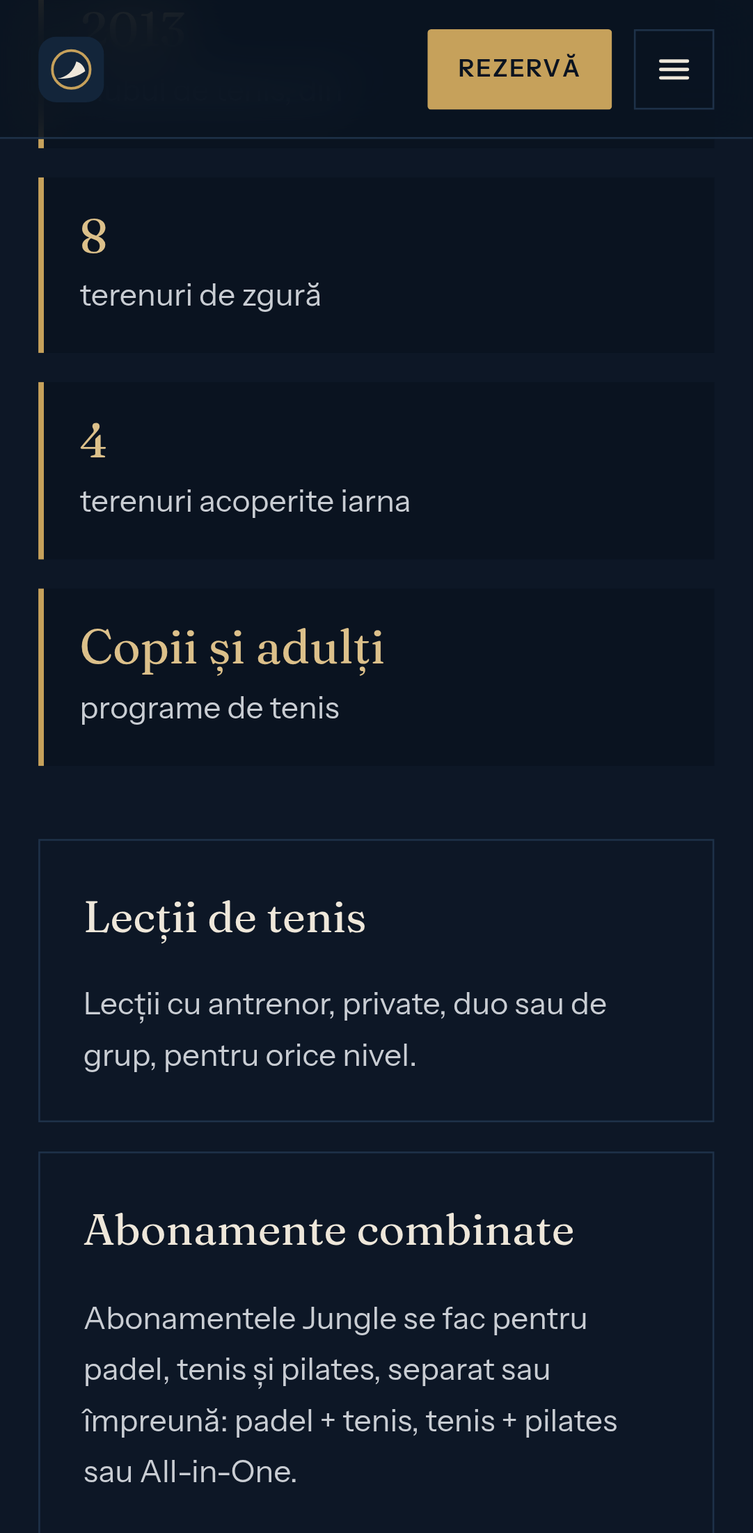
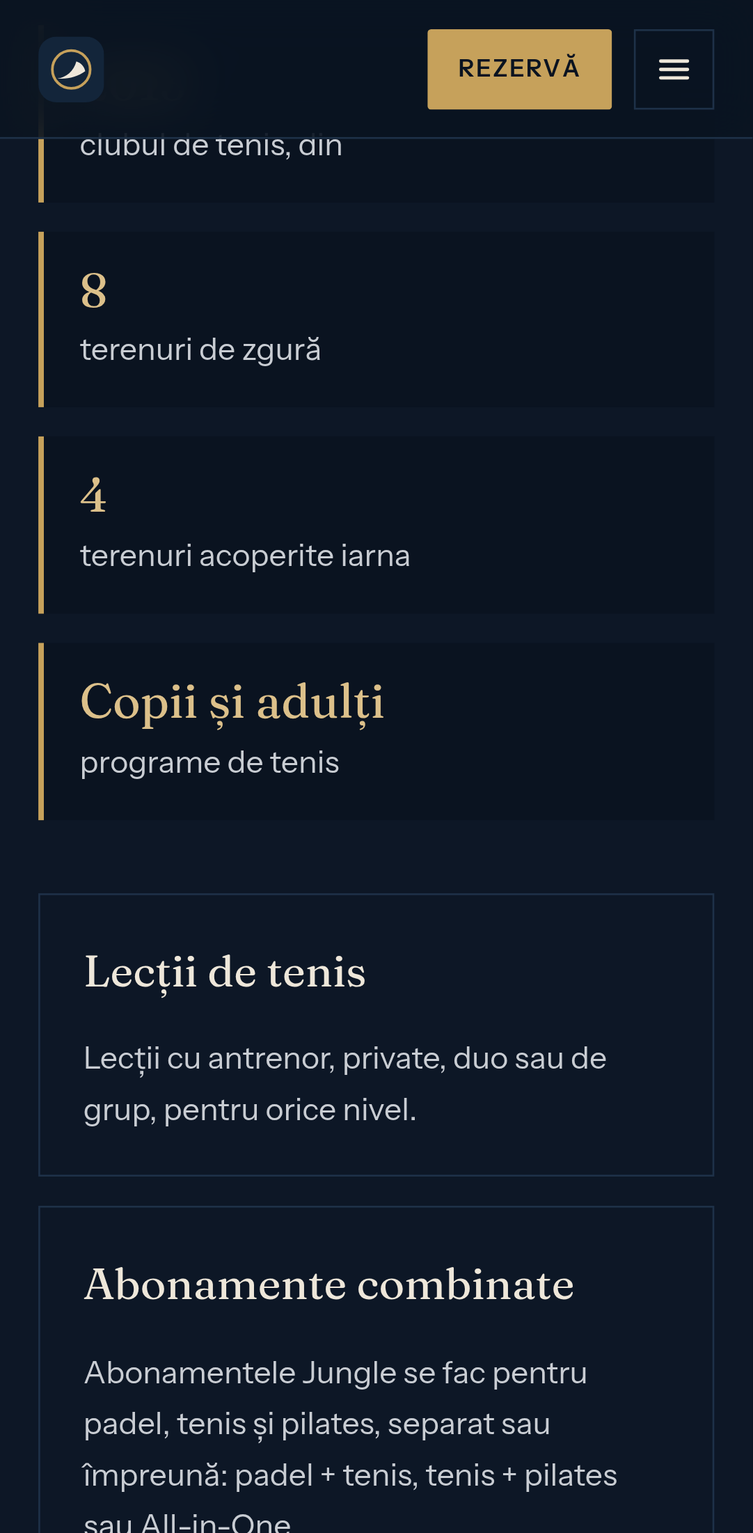
docs: the owner approves sections 2-8 of the full site; Q58 answered
- Sections 2-8 (hero, tour, now at the club, padel, level simulator,
  league, tennis) approved by the owner on 30.09.2026: report, PROGRES,
  CHANGELOG and CLAUDE.md say so; they go to main.
- Q58 answered ("nu avem adresa"): the tennis section has no link and no
  longer promises one ("apare aici în curând" removed); the button to the
  tennis club's site appears only if an address is set in the panel.
  club.tennis_club_url is now marked confirmed. The tennis e2e test checks
  there is neither a link nor a promise.

Claude-Session: https://claude.ai/code/session_01ESD79gPgzcue6YGN8JJxCk

diff --git a/apps/web/e2e/full/tennis.spec.ts b/apps/web/e2e/full/tennis.spec.ts
@@ -1,7 +1,7 @@
 /**
  * The full site, section 8 (§9.2.8, Stage 11): tennis, played at Clubul Tenis Elite, whose site
- * stays separate (Q20). Until the owner sets its address (Q58) there is no link, only the note; no
- * price or court time of the tennis club appears here.
+ * stays separate (Q20). The owner has no address for that site (Q58): no link and no promise of
+ * one; no price or court time of the tennis club appears here.
  */
 import { expect, type Page, test } from "@playwright/test";
 import { chooseNecessaryCookies, expectAccessible } from "../helpers";
@@ -13,7 +13,7 @@ async function shot(page: Page, name: string, project: string) {
 
 test.beforeEach(async ({ context, baseURL }) => chooseNecessaryCookies(context, baseURL));
 
-test("§9.2.8: the tennis club in facts, lessons, packages and the link to come (Q20, Q58)", async ({ page }, info) => {
+test("§9.2.8: the tennis club in facts, lessons and packages, without a link (Q20, Q58)", async ({ page }, info) => {
   await page.goto("/ro");
   const tennis = page.getByRole("region", { name: "Tenis, la Clubul Tenis Elite." });
   await tennis.scrollIntoViewIfNeeded();
@@ -24,7 +24,7 @@ test("§9.2.8: the tennis club in facts, lessons, packages and the link to come 
     "Abonamente combinate",
     "Reformer pentru jucători",
   ]);
-  await expect(tennis.getByText("Legătura spre site-ul Clubului Tenis Elite apare aici în curând.")).toBeVisible();
+  await expect(tennis).not.toContainText("în curând");
   await expect(tennis.locator('a[target="_blank"]')).toHaveCount(0);
   await expect(tennis).not.toContainText(/\d\s?(lei|RON)\b/);
   await expect(tennis.getByRole("link", { name: "Vezi pachetele" })).toHaveAttribute("href", "/ro/pachete");

diff --git a/apps/web/src/components/Tennis.tsx b/apps/web/src/components/Tennis.tsx
@@ -40,13 +40,13 @@ export async function Tennis({ id }: { id: string }) {
         </ul>
         <p className="tennis__booking">{t("booking")}</p>
         <div className="hero-ctas">
-          {url ? (
+          {/* The owner has no address for the tennis club's site (Q58, 30.09.2026): no link and no
+              promise of one; it appears on its own if an address is ever set in the panel. */}
+          {url && (
             <a className="btn btn-primary" href={url} target="_blank" rel="noopener">
               {t("club")}
               <span className="sr-only"> {t("newWindow")}</span>
             </a>
-          ) : (
-            <p className="muted">{t("clubSoon")}</p>
           )}
           <Link className="btn btn-secondary" href="/packages">
             {t("packages")}

diff --git a/apps/backend/jungle/configuration/registry.py b/apps/backend/jungle/configuration/registry.py
@@ -375,9 +375,9 @@ CONFIG: dict[str, ConfigSpec] = {
         ConfigSpec(
             "club.tennis_club_url",
             "",
-            Marker.TO_CONFIRM,
-            "Adresa site-ului Clubului Tenis Elite, legată din secțiunea Tenis a site-ului (Q20); "
-            "goală: numele clubului, fără link.",
+            Marker.CONFIRMED,
+            "Adresa site-ului Clubului Tenis Elite, legată din secțiunea Tenis a site-ului (Q20). "
+            "Goală: fără link (Q58, confirmat de proprietar pe 30.09.2026: nu există încă adresă).",
             optional_url,
             question="Q58",
         ),

diff --git a/CLAUDE.md b/CLAUDE.md
@@ -6,7 +6,7 @@ Memoria operațională a proiectului. Se actualizează la finalul fiecărei etap
 Sistem digital propriu pentru clubul **Jungle Padel** (Șoseaua Biruinței, lângă Selgros Pantelimon): 4 terenuri de padel închise, pilates Reformer (4 → 6 aparate), sală de evenimente, cafenea, ligă de padel de tip MMR. Deschidere: **martie 2027**. Proprietarul **nu are programator**: noi construim și întreținem, în sesiuni succesive. Backend-ul și website-ul sunt singura sursă de adevăr; chioșcurile, ecranele, afișajul cafenelei și adminul sunt „ferestre” spre aceleași date, conectate live.
 
 ## Stare curentă
-- **Etapa 0 aprobată pe 26.09.2026** (tag `etapa-0` doar local: push-ul de tag-uri e refuzat de GitHub din acest mediu). **Etapa 1A aprobată pe 27.09.2026.** **Etapa 1B (pagina de pre-lansare) aprobată pe 27.09.2026** (revizia 3, identitatea „Noapte și alamă”, B4, aleasă de proprietar) (`docs/12-branding/05-identitate-provizorie-noapte-si-alama.md`; „Premium Light” și „Neon Jungle” sunt istoric). Planul clubului, după schița proprietarului: 4 terenuri 2 × 2, pasarelă-lounge la 3 m între rânduri, cafenea/recepție/vestiare jos; pilates și sala de evenimente în clădirea de alături, peste alee (Q46: 4 aparate Reformer momentan, pasarela la 3 m). **Etapa 3 (rezervări, prețuri, anulări, prezențe) aprobată pe 27.09.2026** (`docs/00-management/verificare/etapa-3/RAPORT.md`; Q2, Q3 — vârf 17–22, program 08–23 —, Q15, Q16 confirmate; Q21 prețuri încă deschisă). **Etapa 4 (bani, abonamente, corporate, vouchere, cafenea) aprobată pe 27.09.2026** (Q9: doar numerar; Q13 confirmat; Q21: prețuri orientative DE_STABILIT; Q35: un pachet de firmă, 20%). **Etapa 5 (carduri, Apple + Google Wallet, GDPR) aprobată pe 27.09.2026** (`docs/00-management/verificare/etapa-5/RAPORT.md`; Wallet se activează după conturile clubului, ghid în `docs/08-deploy-si-mentenanta/02-ghid-apple-google-wallet.md`). **Etapa 6 (integrarea ligii) aprobată pe 28.09.2026** (`docs/00-management/verificare/etapa-6/RAPORT.md`; Q6 schimbat: alegere 15% abonament sau 4 × 20% rezervări; Q49: teren, oră, rezultate și istoric publice; Q11, Q27, Q28, Q47, Q48, Q50 confirmate). **Etapa 7 (Hardware Bridge + Chioșcul Ligii) aprobată pe 28.09.2026** (`docs/00-management/verificare/etapa-7/RAPORT.md`; Q51, Q52 confirmate). **Etapa 8 (Chioșcul de Plăți + afișajul cafenelei) aprobată pe 29.09.2026** (`docs/00-management/verificare/etapa-8/RAPORT.md`; Q53, Q54 rămân deschise, cu variantele implicite DE_CONFIRMAT). **Etapa 9 (ecranele de teren și lobby) aprobată pe 29.09.2026** (`docs/00-management/verificare/etapa-9/RAPORT.md`; Q55 rezolvată: toți pe nume, cei din ligă cu insigna „Ligă”; echipele alese de jucători la Chioșcul Ligii). **Etapa 10 (panoul de admin) aprobată pe 29.09.2026** (`docs/00-management/verificare/etapa-10/RAPORT.md`; Q56 rămâne deschisă: rapoartele doar admin + manager, DE_CONFIRMAT). **Etapa 11 (site-ul complet), secțiune cu secțiune:** secțiunea 1 (antetul fix + fundația: comutatorul `full_site`) aprobată pe 29.09.2026 (`docs/00-management/verificare/etapa-11/RAPORT.md`); Q57 rezolvată: site-ul complet apare doar când îl publică proprietarul (comutatorul, din panou). Secțiunile 2 (Hero, `FullHero`), 3 (turul la scroll, `Tour`) 4 („Acum în club”, `NowInClub` + `LiveClub`, live din API-ul public, `src/lib/live.ts`), 5 (Padel, `Padel` + `PadelCourt`), 6 (simulatorul „Care e nivelul tău?”, `Level` + `LevelSimulator`, nivelul calculat pe server de `jungle.league.level_guess` cu formula chestionarului oficial), 7 (Liga Jungle, `League` + `PointsSimulator` + `StandingsPreview`; LP-ul din simulator îl calculează motorul ligii pe server, `jungle.league.lp_preview`, niciodată o copie a formulei în site) și 8 (Tenis, `Tennis`; linkul spre Clubul Tenis Elite din setarea `club.tennis_club_url`, Q58, prin `GET /api/v1/config/links` și `src/lib/links.ts`) livrate pe 29–30.09.2026; decizia proprietarului: în Etapa 11 alegerile le facem noi și continuăm secțiune după secțiune (secțiunile gata rămân pe branch până la aprobarea lor în `main`). **Etapa 11 (website-ul complet) în lucru**, secțiune cu secțiune (§9.2), fiecare aprobată separat. **Etapa 2 (motorul ligii + simulări) aprobată pe 27.09.2026** (`packages/league-engine`, 100% acoperire pe ramuri, rapoarte în `docs/03-liga/simulari/`).
+- **Etapa 0 aprobată pe 26.09.2026** (tag `etapa-0` doar local: push-ul de tag-uri e refuzat de GitHub din acest mediu). **Etapa 1A aprobată pe 27.09.2026.** **Etapa 1B (pagina de pre-lansare) aprobată pe 27.09.2026** (revizia 3, identitatea „Noapte și alamă”, B4, aleasă de proprietar) (`docs/12-branding/05-identitate-provizorie-noapte-si-alama.md`; „Premium Light” și „Neon Jungle” sunt istoric). Planul clubului, după schița proprietarului: 4 terenuri 2 × 2, pasarelă-lounge la 3 m între rânduri, cafenea/recepție/vestiare jos; pilates și sala de evenimente în clădirea de alături, peste alee (Q46: 4 aparate Reformer momentan, pasarela la 3 m). **Etapa 3 (rezervări, prețuri, anulări, prezențe) aprobată pe 27.09.2026** (`docs/00-management/verificare/etapa-3/RAPORT.md`; Q2, Q3 — vârf 17–22, program 08–23 —, Q15, Q16 confirmate; Q21 prețuri încă deschisă). **Etapa 4 (bani, abonamente, corporate, vouchere, cafenea) aprobată pe 27.09.2026** (Q9: doar numerar; Q13 confirmat; Q21: prețuri orientative DE_STABILIT; Q35: un pachet de firmă, 20%). **Etapa 5 (carduri, Apple + Google Wallet, GDPR) aprobată pe 27.09.2026** (`docs/00-management/verificare/etapa-5/RAPORT.md`; Wallet se activează după conturile clubului, ghid în `docs/08-deploy-si-mentenanta/02-ghid-apple-google-wallet.md`). **Etapa 6 (integrarea ligii) aprobată pe 28.09.2026** (`docs/00-management/verificare/etapa-6/RAPORT.md`; Q6 schimbat: alegere 15% abonament sau 4 × 20% rezervări; Q49: teren, oră, rezultate și istoric publice; Q11, Q27, Q28, Q47, Q48, Q50 confirmate). **Etapa 7 (Hardware Bridge + Chioșcul Ligii) aprobată pe 28.09.2026** (`docs/00-management/verificare/etapa-7/RAPORT.md`; Q51, Q52 confirmate). **Etapa 8 (Chioșcul de Plăți + afișajul cafenelei) aprobată pe 29.09.2026** (`docs/00-management/verificare/etapa-8/RAPORT.md`; Q53, Q54 rămân deschise, cu variantele implicite DE_CONFIRMAT). **Etapa 9 (ecranele de teren și lobby) aprobată pe 29.09.2026** (`docs/00-management/verificare/etapa-9/RAPORT.md`; Q55 rezolvată: toți pe nume, cei din ligă cu insigna „Ligă”; echipele alese de jucători la Chioșcul Ligii). **Etapa 10 (panoul de admin) aprobată pe 29.09.2026** (`docs/00-management/verificare/etapa-10/RAPORT.md`; Q56 rămâne deschisă: rapoartele doar admin + manager, DE_CONFIRMAT). **Etapa 11 (site-ul complet), secțiune cu secțiune:** secțiunea 1 (antetul fix + fundația: comutatorul `full_site`) aprobată pe 29.09.2026 (`docs/00-management/verificare/etapa-11/RAPORT.md`); Q57 rezolvată: site-ul complet apare doar când îl publică proprietarul (comutatorul, din panou). Secțiunile 2 (Hero, `FullHero`), 3 (turul la scroll, `Tour`) 4 („Acum în club”, `NowInClub` + `LiveClub`, live din API-ul public, `src/lib/live.ts`), 5 (Padel, `Padel` + `PadelCourt`), 6 (simulatorul „Care e nivelul tău?”, `Level` + `LevelSimulator`, nivelul calculat pe server de `jungle.league.level_guess` cu formula chestionarului oficial), 7 (Liga Jungle, `League` + `PointsSimulator` + `StandingsPreview`; LP-ul din simulator îl calculează motorul ligii pe server, `jungle.league.lp_preview`, niciodată o copie a formulei în site) și 8 (Tenis, `Tennis`; linkul spre Clubul Tenis Elite din setarea `club.tennis_club_url`, Q58, prin `GET /api/v1/config/links` și `src/lib/links.ts`; Q58 rezolvată: fără adresă, fără link) livrate pe 29–30.09.2026 și **aprobate de proprietar pe 30.09.2026** (în `main`); decizia proprietarului: în Etapa 11 alegerile le facem noi și continuăm secțiune după secțiune (secțiunile gata rămân pe branch până la aprobarea lor în `main`); **următoarea: secțiunea 9 (Pilates Reformer)**. **Etapa 11 (website-ul complet) în lucru**, secțiune cu secțiune (§9.2), fiecare aprobată separat. **Etapa 2 (motorul ligii + simulări) aprobată pe 27.09.2026** (`packages/league-engine`, 100% acoperire pe ramuri, rapoarte în `docs/03-liga/simulari/`).
 - Decizii ale proprietarului din 26.09.2026: Apple Wallet amânat (Q24) — **schimbat pe 27.09.2026: Apple Wallet se face în Etapa 5**; textele legale le redactăm noi, fără avocat (Q41); hardware ales mai târziu, lucrăm cu simulatoare (Q23); server propriu sau închiriat (Q40); cont propriu de la 14 ani (Q43, 27.09.2026).
 - Detalii: [docs/00-management/PROGRES.md](docs/00-management/PROGRES.md).
 

diff --git a/docs/00-management/PROGRES.md b/docs/00-management/PROGRES.md
@@ -3,7 +3,7 @@
 > Actualizat la fiecare sesiune de lucru. Prima secțiune spune mereu **unde suntem acum**.
 
 ## Unde suntem acum
-- **Etapa curentă:** Etapa 11 (website-ul complet, secțiune cu secțiune, fiecare aprobată separat). **Secțiunea 1 (antetul fix) + fundația site-ului complet:** aprobată de proprietar pe 29.09.2026 (în `main`). Site-ul complet stă ascuns în spatele comutatorului `full_site` până îl publică proprietarul (Q57, rezolvată). **Secțiunile 2 (Hero „Intră în junglă”), 3 (turul clubului la scroll), 4 („Acum în club”, live), 5 (Padel), 6 (simulatorul „Care e nivelul tău?”), 7 (Liga Jungle, cu simulatorul de puncte) și 8 (Tenis):** livrate pe 29–30.09.2026, pe branch. Decizia proprietarului (29.09.2026): în Etapa 11 alegerile le facem noi și continuăm secțiune după secțiune. Raport: [verificare/etapa-11/RAPORT.md](verificare/etapa-11/RAPORT.md).
+- **Etapa curentă:** Etapa 11 (website-ul complet, secțiune cu secțiune, fiecare aprobată separat). **Secțiunea 1 (antetul fix) + fundația site-ului complet:** aprobată de proprietar pe 29.09.2026 (în `main`). Site-ul complet stă ascuns în spatele comutatorului `full_site` până îl publică proprietarul (Q57, rezolvată). **Secțiunile 2 (Hero „Intră în junglă”), 3 (turul clubului la scroll), 4 („Acum în club”, live), 5 (Padel), 6 (simulatorul „Care e nivelul tău?”), 7 (Liga Jungle, cu simulatorul de puncte) și 8 (Tenis):** aprobate de proprietar pe 30.09.2026 (în `main`). Q58 rezolvată: fără adresa site-ului de tenis, secțiunea Tenis rămâne fără link. **Următoarea:** secțiunea 9 (Pilates Reformer). Decizia proprietarului (29.09.2026): în Etapa 11 alegerile le facem noi și continuăm secțiune după secțiune. Raport: [verificare/etapa-11/RAPORT.md](verificare/etapa-11/RAPORT.md).
 - **Etapa 10 (panoul de admin):** aprobată de proprietar pe 29.09.2026 (merge în `main`, tag local `etapa-10`). Q56 rămâne deschisă, cu varianta implicită (rapoartele doar admin + manager). Raport: [verificare/etapa-10/RAPORT.md](verificare/etapa-10/RAPORT.md).
 - **Etapa 9 (ecranele de teren și lobby):** aprobată de proprietar pe 29.09.2026 (merge în `main`, tag local `etapa-9`). Q55 rezolvată (toți pe nume, insigna „Ligă”, echipele alese la Chioșcul Ligii). Raport: [verificare/etapa-9/RAPORT.md](verificare/etapa-9/RAPORT.md).
 - **Etapa 8 (Chioșcul de Plăți + afișajul cafenelei):** aprobată de proprietar pe 29.09.2026 (merge în `main`, tag local `etapa-8`). Q53 și Q54 rămân deschise, cu variantele implicite. Raport: [verificare/etapa-8/RAPORT.md](verificare/etapa-8/RAPORT.md).
@@ -36,7 +36,7 @@
 | 8 | Chioșcul de Plăți + afișajul cafenelei | ian. 2027 | **Aprobată 29.09.2026** |
 | 9 | Ecranele | ian. 2027 | **Aprobată 29.09.2026** |
 | 10 | Panoul de admin complet | ian. 2027 | **Aprobată 29.09.2026** |
-| 11 | Website-ul „simulator” | ian.–feb. 2027 | În lucru: secțiunea 1 aprobată 29.09.2026; secțiunile 2–8 livrate |
+| 11 | Website-ul „simulator” | ian.–feb. 2027 | În lucru: secțiunea 1 aprobată 29.09.2026; secțiunile 2–8 aprobate 30.09.2026 |
 | 12 | AI + notificări | feb. 2027 | Neîncepută |
 | 13 | SEO, marketing, branding, vânzări | în paralel, feb. 2027 | Neîncepută |
 | 14 | Deploy, securitate, backup, hardware real | feb. 2027 | Neîncepută |
@@ -140,3 +140,4 @@
 - **30.09.2026** — Etapa 11, secțiunea 6 livrată: simulatorul „Care e nivelul tău?” (întrebări pe pastile, mingea care ricoșează și aterizează pe scara 1–7, nivelul calculat pe server cu formula chestionarului oficial Q47, recomandarea, chestionarul oficial precompletat; nu se salvează nimic). Fonturile cu literele românești se cer de la început. Lighthouse mobil 91/100/100/100 (LCP simulat 3,3 s, ca în 1B de măsurat pe serverul real), desktop 100.
 - **30.09.2026** — Etapa 11, secțiunea 7 livrată: Liga Jungle (rangurile pe o scară care urcă, cum se câștigă LP, sezoanele, premiile Q6, clasamentul live) și simulatorul de puncte, cu LP calculat de motorul ligii pe server (`GET /api/v1/league/lp-preview`), nu cu o copie a formulei. Lighthouse mobil 95/100/100/100, desktop 100.
 - **30.09.2026** — Etapa 11, secțiunea 8 livrată: Tenis (Clubul Tenis Elite pe scurt, lecții, abonamente combinate, Reformer pentru jucători; linkul spre site-ul de tenis din panou, Q58 nouă). Lighthouse mobil 90–92 (marja scade: trecere de performanță planificată înainte de publicare), desktop 100.
+- **30.09.2026** — Proprietarul: „nu avem adresa. Aprob și continuă”. Secțiunile 2–8 aprobate și aduse în `main`; Q58 rezolvată (secțiunea Tenis fără link și fără fraza „apare aici în curând”).

diff --git a/docs/00-management/verificare/etapa-11/RAPORT.md b/docs/00-management/verificare/etapa-11/RAPORT.md
@@ -2,18 +2,20 @@
 
 > Branch: `claude/hopeful-euler-rguibn`. Site-ul complet se livrează **secțiune cu secțiune** (§9.2). Acest raport crește cu fiecare secțiune.
 >
+> **Aprobarea proprietarului (30.09.2026):** „Aprob și continuă”: secțiunile 2–8 sunt aprobate și intră în `main`. La Q58: „nu avem adresa” (secțiunea Tenis rămâne fără link).
+>
 > **Decizia proprietarului (29.09.2026):** „alege ce crezi că este mai bine doar la această etapă”. În Etapa 11, alegerile de conținut și design le facem noi, după documentație și regulile proiectului, și continuăm secțiune după secțiune. Dumneavoastră vedeți totul aici și ne spuneți oricând ce vreți schimbat.
 
 | Secțiune (§9.2) | Livrată | Starea |
 |---|---|---|
 | Fundația site-ului complet + **1. Antetul fix** | 29.09.2026 | **aprobată 29.09.2026** |
-| 2. Hero „Intră în junglă” | 29.09.2026 | **livrată** |
-| 3. Turul clubului la scroll | 29.09.2026 | **livrată** |
-| 4. „Acum în club” (live) | 29.09.2026 | **livrată** |
-| 5. Padel | 30.09.2026 | **livrată** |
-| 6. Simulatorul „Care e nivelul tău?” | 30.09.2026 | **livrată** |
-| 7. Liga Jungle + simulatorul de puncte | 30.09.2026 | **livrată** |
-| 8. Tenis | 30.09.2026 | **livrată** |
+| 2. Hero „Intră în junglă” | 29.09.2026 | **aprobată 30.09.2026** |
+| 3. Turul clubului la scroll | 29.09.2026 | **aprobată 30.09.2026** |
+| 4. „Acum în club” (live) | 29.09.2026 | **aprobată 30.09.2026** |
+| 5. Padel | 30.09.2026 | **aprobată 30.09.2026** |
+| 6. Simulatorul „Care e nivelul tău?” | 30.09.2026 | **aprobată 30.09.2026** |
+| 7. Liga Jungle + simulatorul de puncte | 30.09.2026 | **aprobată 30.09.2026** |
+| 8. Tenis | 30.09.2026 | **aprobată 30.09.2026** |
 | 9–19 | — | urmează, câte una |
 
 ---
@@ -364,7 +366,8 @@ După simulatorul de nivel urmează liga (§9.2, secțiunea 7), sub titlul „Di
 Sub ligă, secțiunea „Tenis, la Clubul Tenis Elite.” (§9.2, secțiunea 8):
 - **Clubul pe scurt,** în patru cifre: din 2013, 8 terenuri de zgură, 4 acoperite iarna, programe pentru copii și adulți.
 - **Ce leagă cele două cluburi,** în trei carduri: lecții de tenis cu antrenor (R-090), abonamente combinate (padel + tenis, tenis + pilates, All-in-One, R-080), Reformer pentru jucătorii de tenis și padel (R-101).
-- **Terenurile, programul și tarifele de tenis** rămân la clubul de tenis. Butonul „Mergi la Clubul Tenis Elite” apare când completați adresa site-ului în panou. Până atunci scrie „Legătura spre site-ul Clubului Tenis Elite apare aici în curând.”
+- **Terenurile, programul și tarifele de tenis** rămân la clubul de tenis. Butonul „Mergi la Clubul Tenis Elite” apare doar dacă se completează în panou adresa site-ului de tenis.
+- **După răspunsul dumneavoastră la Q58 (30.09.2026, „nu avem adresa”):** secțiunea nu are link și nici fraza „Legătura … apare aici în curând”, ca să nu promită ceva ce nu există.
 - Butonul „Vezi pachetele”.
 
 **Ce am ales și de ce:**
@@ -393,5 +396,5 @@ Sub ligă, secțiunea „Tenis, la Clubul Tenis Elite.” (§9.2, secțiunea 8):
 
 ### Cum verificați (click cu click)
 1. Deschideți capturile 20 și 21.
-2. Răspundeți la **Q58**: adresa site-ului Clubului Tenis Elite. O puteți pune și singur, din panou: **Setări** → `club.tennis_club_url`.
-3. Dacă secțiunea vă place, scrieți „aprob secțiunea 8”.
+2. **Q58** e rezolvată: fără adresă, fără link. Dacă apare o adresă, o puneți din panou: **Setări** → `club.tennis_club_url`.
+3. Secțiunea e aprobată (30.09.2026).

diff --git a/docs/00-management/INTREBARI_DESCHISE.md b/docs/00-management/INTREBARI_DESCHISE.md
@@ -78,7 +78,7 @@ Titlul și instrucțiunea din §17, preluate integral:
 | [Q55](#q55) | Ecranele: cine apare pe nume, echipele, anunțurile | MEDIE | Etapa 9 (nu blochează) | REZOLVATĂ 29.09.2026 |
 | [Q56](#q56) | Panoul de admin: cine vede rapoartele financiare *(nouă, Etapa 10)* | SCĂZUTĂ | nimic (se schimbă ușor) | DESCHISĂ |
 | [Q57](#q57) | Site-ul complet: când înlocuiește pagina de pre-lansare *(nouă, Etapa 11)* | MEDIE | nimic (comutator în panou) | REZOLVATĂ 29.09.2026 |
-| [Q58](#q58) | Adresa site-ului Clubului Tenis Elite *(nouă, Etapa 11)* | SCĂZUTĂ | nimic (link din panou) | DESCHISĂ |
+| [Q58](#q58) | Adresa site-ului Clubului Tenis Elite *(nouă, Etapa 11)* | SCĂZUTĂ | nimic (link din panou) | REZOLVATĂ 30.09.2026 |
 
 ## Întrebările din MEGA_PROMPT (Q1–Q38)
 
@@ -712,7 +712,8 @@ Titlul și instrucțiunea din §17, preluate integral:
 ### <a id="q58"></a>Q58 — Adresa site-ului Clubului Tenis Elite
 
 - **Prioritate:** SCĂZUTĂ · **Blochează:** nimic (secțiunea Tenis merge și fără link)
-- **Stare:** DESCHISĂ
+- **Stare:** REZOLVATĂ (30.09.2026)
+- **Răspunsul proprietarului (30.09.2026):** „nu avem adresa”. Secțiunea Tenis rămâne **fără link** și fără promisiunea unuia (fraza „Legătura … apare aici în curând” a fost scoasă). Dacă site-ul de tenis va avea o adresă, se completează din panou (**Setări** → `club.tennis_club_url`) și butonul „Mergi la Clubul Tenis Elite” apare singur.
 - **Context:** Q20 (26.09.2026): site-ul de tenis rămâne separat, cu legături reciproce. Secțiunea Tenis a site-ului (Etapa 11, secțiunea 8) trebuie să trimită vizitatorul acolo, dar adresa site-ului nu apare în documentație.
 - **Varianta implicită (DE_CONFIRMAT):** până primim adresa, secțiunea scrie „Legătura spre site-ul Clubului Tenis Elite apare aici în curând.”, fără link. Adresa se completează din panou (**Setări** → `club.tennis_club_url`, doar `https://…`), iar site-ul se actualizează singur în câteva secunde.
 - **Întrebare pentru proprietar:** care e adresa site-ului Clubului Tenis Elite? Și, pentru legătura inversă: puteți adăuga pe site-ul de tenis un link spre Jungle Padel, când publicați site-ul complet?

diff --git a/docs/04-arhitectura/aplicatii/09-website-simulator.md b/docs/04-arhitectura/aplicatii/09-website-simulator.md
@@ -88,7 +88,7 @@ Fiecare pagină există în toate limbile active, cu URL-uri localizate (`/ro/..
 - **Clasamentul live:** primii 5 din clasamentul de dublu al sezonului în curs, doar câmpurile publice (R-012), reîmprospătat la fiecare minut. Înainte de primul sezon, site-ul nu cere clasamentul serverului și spune când apare.
 
 ### Secțiunea 8 — Tenis (30.09.2026)
-- Tenisul se joacă la **Clubul Tenis Elite**, al cărui site rămâne separat, cu legături reciproce (Q20). Adresa lui se pune din panou (`club.tennis_club_url`, public prin `GET /api/v1/config/links`, Q58); fără adresă, secțiunea nu are link.
+- Tenisul se joacă la **Clubul Tenis Elite**, al cărui site rămâne separat, cu legături reciproce (Q20). Adresa lui se pune din panou (`club.tennis_club_url`, public prin `GET /api/v1/config/links`, Q58); fără adresă, secțiunea nu are link. Răspunsul proprietarului la Q58 (30.09.2026): „nu avem adresa”; secțiunea rămâne fără link și fără promisiunea unuia.
 - Faptele despre club sunt cele din §2.3: din 2013, 8 terenuri de zgură, 4 acoperite iarna, programe pentru copii și adulți. Numărul de recenzii nu apare: se schimbă.
 - Legătura cu Jungle: lecțiile de tenis (R-090), abonamentele combinate (R-080) și Reformer pentru jucători (R-101).
 - **Fără prețuri și fără program de terenuri:** acestea sunt ale clubului de tenis, pe site-ul lui. Terenul de tenis de pe amplasamentul Jungle e încă nedecis (§2.2) și nu apare.

diff --git a/docs/00-management/CHANGELOG.md b/docs/00-management/CHANGELOG.md
@@ -4,6 +4,11 @@ Formatul urmează [Keep a Changelog](https://keepachangelog.com/en/1.1.0/); vers
 
 ## [Nelansat]
 
+### Etapa 11, secțiunile 2–8 — aprobate 30.09.2026
+#### Schimbat
+- Proprietarul a aprobat secțiunile 2–8 („Aprob și continuă”); intră în `main`.
+- Q58 rezolvată („nu avem adresa”): secțiunea Tenis nu mai are fraza „Legătura spre site-ul Clubului Tenis Elite apare aici în curând.”; butonul spre site-ul de tenis apare doar dacă se completează adresa în panou (`club.tennis_club_url`, acum marcată confirmată).
+
 ### Etapa 11, secțiunea 8 — 30.09.2026 (livrată)
 #### Adăugat
 - Tenis (§9.2, secțiunea 8): `Tennis`. Clubul Tenis Elite pe scurt (§2.3), lecțiile de tenis, abonamentele combinate, Reformer pentru jucători; fără prețuri sau program de terenuri (sunt ale clubului de tenis). Texte `web.site.tennis.*` RO + EN.
